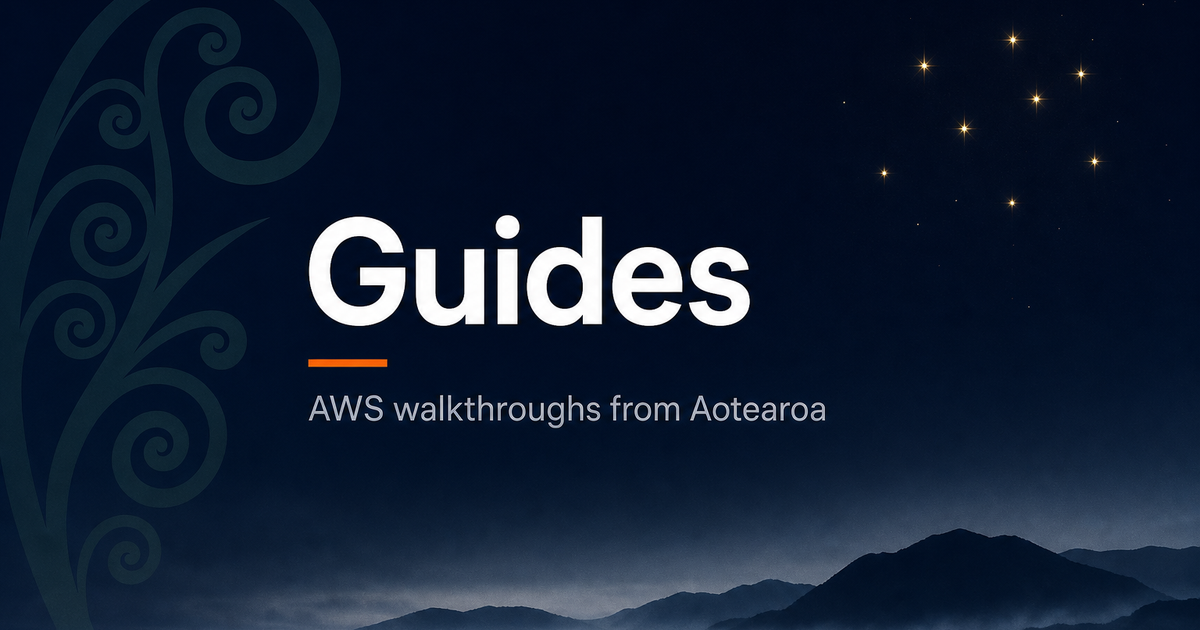
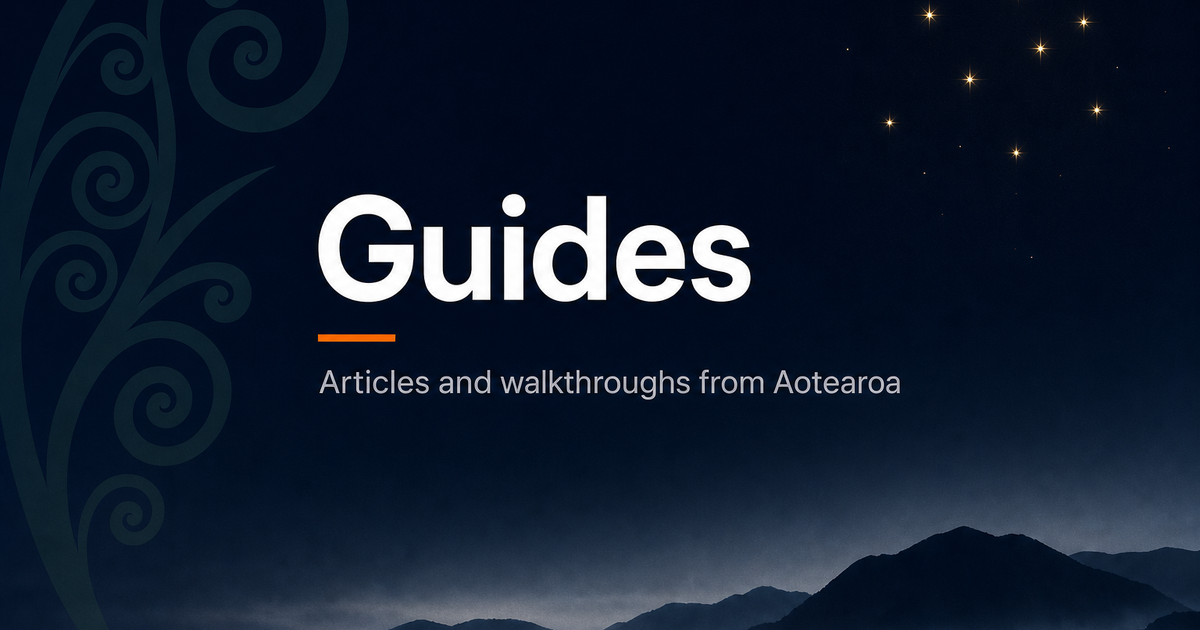
docs: update contents
update og image and texts

diff --git a/src/pages/rss.xml.js b/src/pages/rss.xml.js
@@ -1,20 +1,27 @@
-import rss from '@astrojs/rss';
-import { getCollection } from 'astro:content';
+import rss from "@astrojs/rss";
+import { getCollection } from "astro:content";
 
 export async function GET(context) {
-  const entries = await getCollection('guides', ({ data }) => !data.draft);
-  const sorted = entries.sort((a, b) => b.data.date.valueOf() - a.data.date.valueOf());
+  const entries = await getCollection("guides", ({ data }) => !data.draft);
+  const sorted = entries.sort(
+    (a, b) => b.data.date.valueOf() - a.data.date.valueOf(),
+  );
 
   return rss({
-    title: 'Guides',
-    description: 'Dated hub for AWS walkthroughs and articles with categories linking to full GitHub Pages content.',
+    title: "Guides",
+    description:
+      "Dated hub for articles and walkthroughs with categories linking to full GitHub Pages content.",
     site: context.site,
     items: sorted.map((entry) => ({
       title: entry.data.title,
       description: entry.data.summary,
       pubDate: entry.data.date,
       link: `/guides/${entry.slug}/`,
-      categories: [entry.data.type, entry.data.category, ...(entry.data.tags ?? [])],
+      categories: [
+        entry.data.type,
+        entry.data.category,
+        ...(entry.data.tags ?? []),
+      ],
     })),
   });
 }

diff --git a/docs/walkthrough.md b/docs/walkthrough.md
@@ -4,7 +4,7 @@ Operator guide for the **guides** Astro hub: local run, adding entries, and GitH
 
 ## Purpose
 
-Dated hub for AWS walkthroughs and articles. Each Markdown entry is a short intro with metadata; full content stays on the source repo’s GitHub Pages site or an external article URL.
+Dated hub for articles and walkthroughs. Each Markdown entry is a short intro with metadata; full content stays on the source repo’s GitHub Pages site or an external article URL.
 
 Live URL (after Pages is enabled): https://jajera.github.io/guides/
 
@@ -45,8 +45,8 @@ Preview serves under `/guides/`.
 ---
 title: Your guide title
 date: 2026-07-11
-type: walkthrough   # or article
-category: networking  # see categories below
+type: walkthrough # or article
+category: networking # see categories below
 tags: [example, tag]
 summary: One or two sentences for cards and SEO.
 walkthrough_url: https://jajera.github.io/your-walkthrough/
@@ -54,19 +54,18 @@ demo_url: https://github.com/jajera/your-demo
 # article_url: https://dev.to/jajera/your-article
 draft: false
 ---
-
 Short intro in Markdown. Link out via the CTA buttons from front matter URLs.
 ```
 
 ### Required fields
 
-| Field | Notes |
-|-------|--------|
-| `title` | Display title |
-| `date` | ISO date (`YYYY-MM-DD`) |
-| `type` | `walkthrough` or `article` |
-| `category` | One of the enums below |
-| `summary` | Card / meta description |
+| Field      | Notes                      |
+| ---------- | -------------------------- |
+| `title`    | Display title              |
+| `date`     | ISO date (`YYYY-MM-DD`)    |
+| `type`     | `walkthrough` or `article` |
+| `category` | One of the enums below     |
+| `summary`  | Card / meta description    |
 
 ### Optional fields
 
@@ -85,14 +84,14 @@ Published entries should usually include at least one of `walkthrough_url` or `a
 
 ## Site map
 
-| Path | Purpose |
-|------|---------|
-| `/guides/` | Home — search, type/category filters, pagination |
-| `/guides/[slug]/` | Entry detail |
-| `/guides/categories/` | Category index |
-| `/guides/categories/[category]/` | Entries in a category |
-| `/guides/rss.xml` | RSS feed |
-| `/guides/sitemap-index.xml` | Sitemap |
+| Path                             | Purpose                                          |
+| -------------------------------- | ------------------------------------------------ |
+| `/guides/`                       | Home — search, type/category filters, pagination |
+| `/guides/[slug]/`                | Entry detail                                     |
+| `/guides/categories/`            | Category index                                   |
+| `/guides/categories/[category]/` | Entries in a category                            |
+| `/guides/rss.xml`                | RSS feed                                         |
+| `/guides/sitemap-index.xml`      | Sitemap                                          |
 
 ## Home UX notes
 
@@ -112,16 +111,16 @@ The workflow builds with `npm ci` and deploys `dist/`. `public/.nojekyll` is cop
 
 ## Troubleshooting
 
-| Symptom | Check |
-|---------|--------|
-| Build fails on front matter | Required fields / enum values; Zod schema in `src/content/config.ts` |
-| Draft still visible | Confirm `draft: true` and that you are not looking at a stale preview |
-| Assets 404 under Pages | `astro.config.mjs` must keep `base: '/guides/'` |
-| Card links look like `/guides/guides/...` | Detail route must be `src/pages/[slug].astro`, not `pages/guides/[slug].astro` |
-| Search does not hide cards | Ensure `.entry-list > li[hidden] { display: none; }` (flex overrides `hidden` otherwise) |
-| Blank Pages deploy | Pages source must be **GitHub Actions**, not “Deploy from a branch” |
-| `npm ci` fails in CI | Commit an up-to-date `package-lock.json` after `npm install` |
-| `astro: Permission denied` | Reinstall deps (`rm -rf node_modules && npm install`); do not copy `node_modules` between machines |
+| Symptom                                   | Check                                                                                              |
+| ----------------------------------------- | -------------------------------------------------------------------------------------------------- |
+| Build fails on front matter               | Required fields / enum values; Zod schema in `src/content/config.ts`                               |
+| Draft still visible                       | Confirm `draft: true` and that you are not looking at a stale preview                              |
+| Assets 404 under Pages                    | `astro.config.mjs` must keep `base: '/guides/'`                                                    |
+| Card links look like `/guides/guides/...` | Detail route must be `src/pages/[slug].astro`, not `pages/guides/[slug].astro`                     |
+| Search does not hide cards                | Ensure `.entry-list > li[hidden] { display: none; }` (flex overrides `hidden` otherwise)           |
+| Blank Pages deploy                        | Pages source must be **GitHub Actions**, not “Deploy from a branch”                                |
+| `npm ci` fails in CI                      | Commit an up-to-date `package-lock.json` after `npm install`                                       |
+| `astro: Permission denied`                | Reinstall deps (`rm -rf node_modules && npm install`); do not copy `node_modules` between machines |
 
 ## Intentionally excluded (v1)
 

diff --git a/.kiro/specs/guides-hub/design.md b/.kiro/specs/guides-hub/design.md
@@ -2,7 +2,7 @@
 
 ## Overview
 
-**guides** is a static Astro hub that indexes AWS walkthroughs and articles. Each content file is a short intro with metadata. Full guides remain on source repo Pages sites or external article URLs (for example DEV.to).
+**guides** is a static Astro hub that indexes AWS articles and walkthroughs. Each content file is a short intro with metadata. Full guides remain on source repo Pages sites or external article URLs (for example DEV.to).
 
 ### Design Goals
 
@@ -38,18 +38,18 @@ flowchart LR
 
 ### Stack
 
-| Piece | Choice |
-|-------|--------|
-| Framework | Astro 5 (static output) |
-| Content | Astro content collections + Markdown + Zod |
-| Styling | Global CSS variables; light/dark via `data-theme` |
-| Search / filters | Client-side on home (no search backend) |
-| Pagination | Client-side, 12 per page, URL `?page=` |
-| SEO | Canonical, Open Graph, Twitter cards, `public/og.png` |
-| Feeds | `@astrojs/sitemap`, `@astrojs/rss` |
-| Hosting | GitHub Pages |
-| Deploy | GitHub Actions (`actions/deploy-pages`) |
-| Content sync | Manual |
+| Piece            | Choice                                                |
+| ---------------- | ----------------------------------------------------- |
+| Framework        | Astro 5 (static output)                               |
+| Content          | Astro content collections + Markdown + Zod            |
+| Styling          | Global CSS variables; light/dark via `data-theme`     |
+| Search / filters | Client-side on home (no search backend)               |
+| Pagination       | Client-side, 12 per page, URL `?page=`                |
+| SEO              | Canonical, Open Graph, Twitter cards, `public/og.png` |
+| Feeds            | `@astrojs/sitemap`, `@astrojs/rss`                    |
+| Hosting          | GitHub Pages                                          |
+| Deploy           | GitHub Actions (`actions/deploy-pages`)               |
+| Content sync     | Manual                                                |
 
 ### Site map
 
@@ -66,16 +66,16 @@ Paths below are under site base `/guides/`.
 
 ### Category set (v1)
 
-| Category | Examples |
-|----------|----------|
+| Category     | Examples                                              |
+| ------------ | ----------------------------------------------------- |
 | `networking` | Private connectivity, interconnect, IPAM, VPC Lattice |
-| `dns` | Route 53 multi-account |
-| `serverless` | Event-driven, Lambda, IAM Policy Guard |
-| `storage` | S3 Files, annotations, vectors |
-| `containers` | ECS Express Mode, EKS decision guides |
-| `iot` | ESP32 / AWS IoT |
-| `tooling` | Amazon Q, GitHub Actions |
-| `general` | Catch-all |
+| `dns`        | Route 53 multi-account                                |
+| `serverless` | Event-driven, Lambda, IAM Policy Guard                |
+| `storage`    | S3 Files, annotations, vectors                        |
+| `containers` | ECS Express Mode, EKS decision guides                 |
+| `iot`        | ESP32 / AWS IoT                                       |
+| `tooling`    | Amazon Q, GitHub Actions                              |
+| `general`    | Catch-all                                             |
 
 ### Type set
 
@@ -100,7 +100,6 @@ walkthrough_url: https://jajera.github.io/route53-classic-multi-account-walkthro
 demo_url: https://github.com/jajera/route53-classic-multi-account-walkthrough
 draft: false
 ---
-
 Short intro body in Markdown.
 ```
 
@@ -217,13 +216,13 @@ Built asset URLs and internal links work under `/guides/` base path. Entry detai
 
 ## Error handling
 
-| Scenario | Handling |
-|----------|----------|
-| Missing required front matter | Astro content collection validation fails at build |
-| Unknown category | Schema enum rejects at build |
-| Broken outbound URL | Author responsibility; spot-check before release |
-| Empty category | Category page can render empty state; index may show zero count |
-| Favicon request | Served from `public/`; avoids `[slug]` catch-all warnings |
+| Scenario                      | Handling                                                        |
+| ----------------------------- | --------------------------------------------------------------- |
+| Missing required front matter | Astro content collection validation fails at build              |
+| Unknown category              | Schema enum rejects at build                                    |
+| Broken outbound URL           | Author responsibility; spot-check before release                |
+| Empty category                | Category page can render empty state; index may show zero count |
+| Favicon request               | Served from `public/`; avoids `[slug]` catch-all warnings       |
 
 ## Testing strategy
 

diff --git a/.kiro/specs/guides-hub/requirements.md b/.kiro/specs/guides-hub/requirements.md
@@ -2,7 +2,7 @@
 
 ## Introduction
 
-This feature implements **guides**, a GitHub Pages hub for **AWS walkthroughs and articles**.
+This feature implements **guides**, a GitHub Pages hub for **AWS articles and walkthroughs**.
 
 The hub is an **intro and index only**. Full walkthrough content stays on each source repo Pages site (or external article URL such as DEV.to). Hub entries are short dated posts with category, tags, summary, and outbound links.
 
@@ -126,4 +126,4 @@ The hub is an **intro and index only**. Full walkthrough content stays on each s
 
 1. THE repository SHALL include `.gitignore` for Node and Astro build artifacts
 2. THE repository SHALL include `package.json` with `dev`, `build`, and `preview` scripts
-3. THE repository description target SHALL be: `Dated hub for AWS walkthroughs and articles with categories linking to full GitHub Pages content`
+3. THE repository description target SHALL be: `Dated hub for AWS articles and walkthroughs with categories linking to full GitHub Pages content`

diff --git a/README.md b/README.md
@@ -1,8 +1,8 @@
 # guides
 
-Dated hub for AWS walkthroughs and articles with categories linking to full GitHub Pages content.
+Dated hub for articles and walkthroughs with categories linking to full GitHub Pages content.
 
-Short intros live here. Full walkthroughs and articles stay on their source repo Pages sites (or external posts such as DEV.to).
+Short intros live here. Full articles and walkthroughs stay on their source repo Pages sites (or external posts such as DEV.to).
 
 **Live site:** https://jajera.github.io/guides/
 

diff --git a/.kiro/specs/guides-hub/tasks.md b/.kiro/specs/guides-hub/tasks.md
@@ -2,7 +2,7 @@
 
 ## Overview
 
-Build a fully set up Astro GitHub Pages hub for AWS walkthroughs and articles. Content is manual Markdown. Ship working layouts, home filters/search/pagination, category indexes, theme toggle, SEO/RSS/sitemap, Pages workflow, and docs.
+Build a fully set up Astro GitHub Pages hub for AWS articles and walkthroughs. Content is manual Markdown. Ship working layouts, home filters/search/pagination, category indexes, theme toggle, SEO/RSS/sitemap, Pages workflow, and docs.
 
 ## Tasks
 

diff --git a/.kiro/specs/guides-hub/walkthrough.md b/.kiro/specs/guides-hub/walkthrough.md
@@ -4,7 +4,7 @@ Spec-level operator guide. Source for `docs/walkthrough.md` per `.config.kiro`.
 
 ## Purpose
 
-Fully set up Astro hub for AWS walkthroughs and articles. Manual Markdown content. GitHub Pages hosting. Home search/filters/pagination and light/dark theme.
+Fully set up Astro hub for AWS articles and walkthroughs. Manual Markdown content. GitHub Pages hosting. Home search/filters/pagination and light/dark theme.
 
 ## Local run
 
